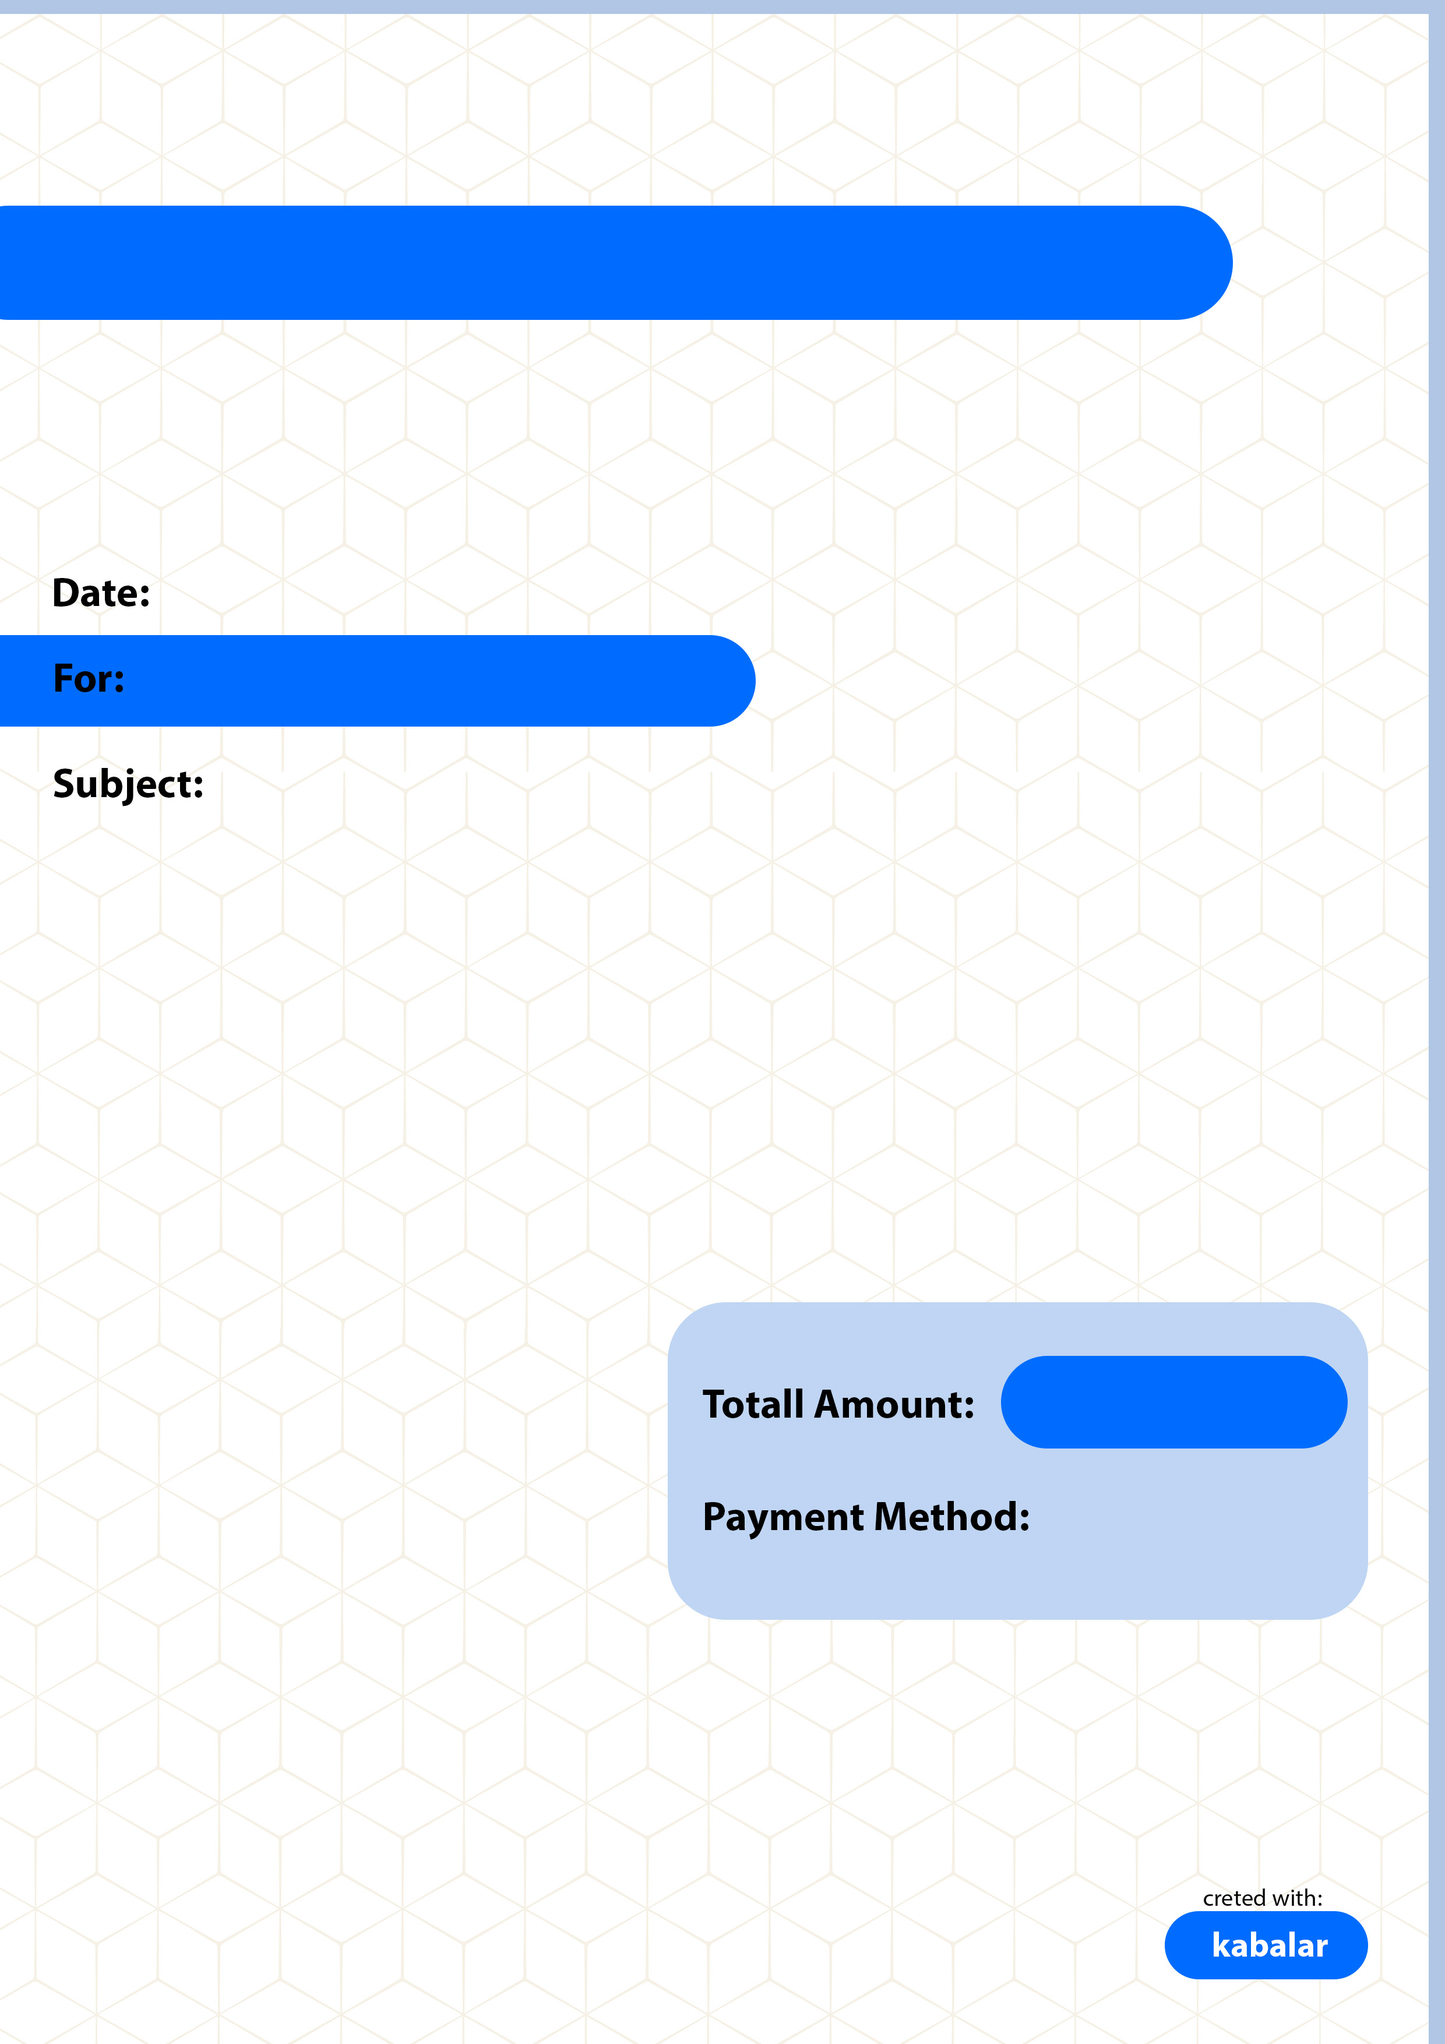
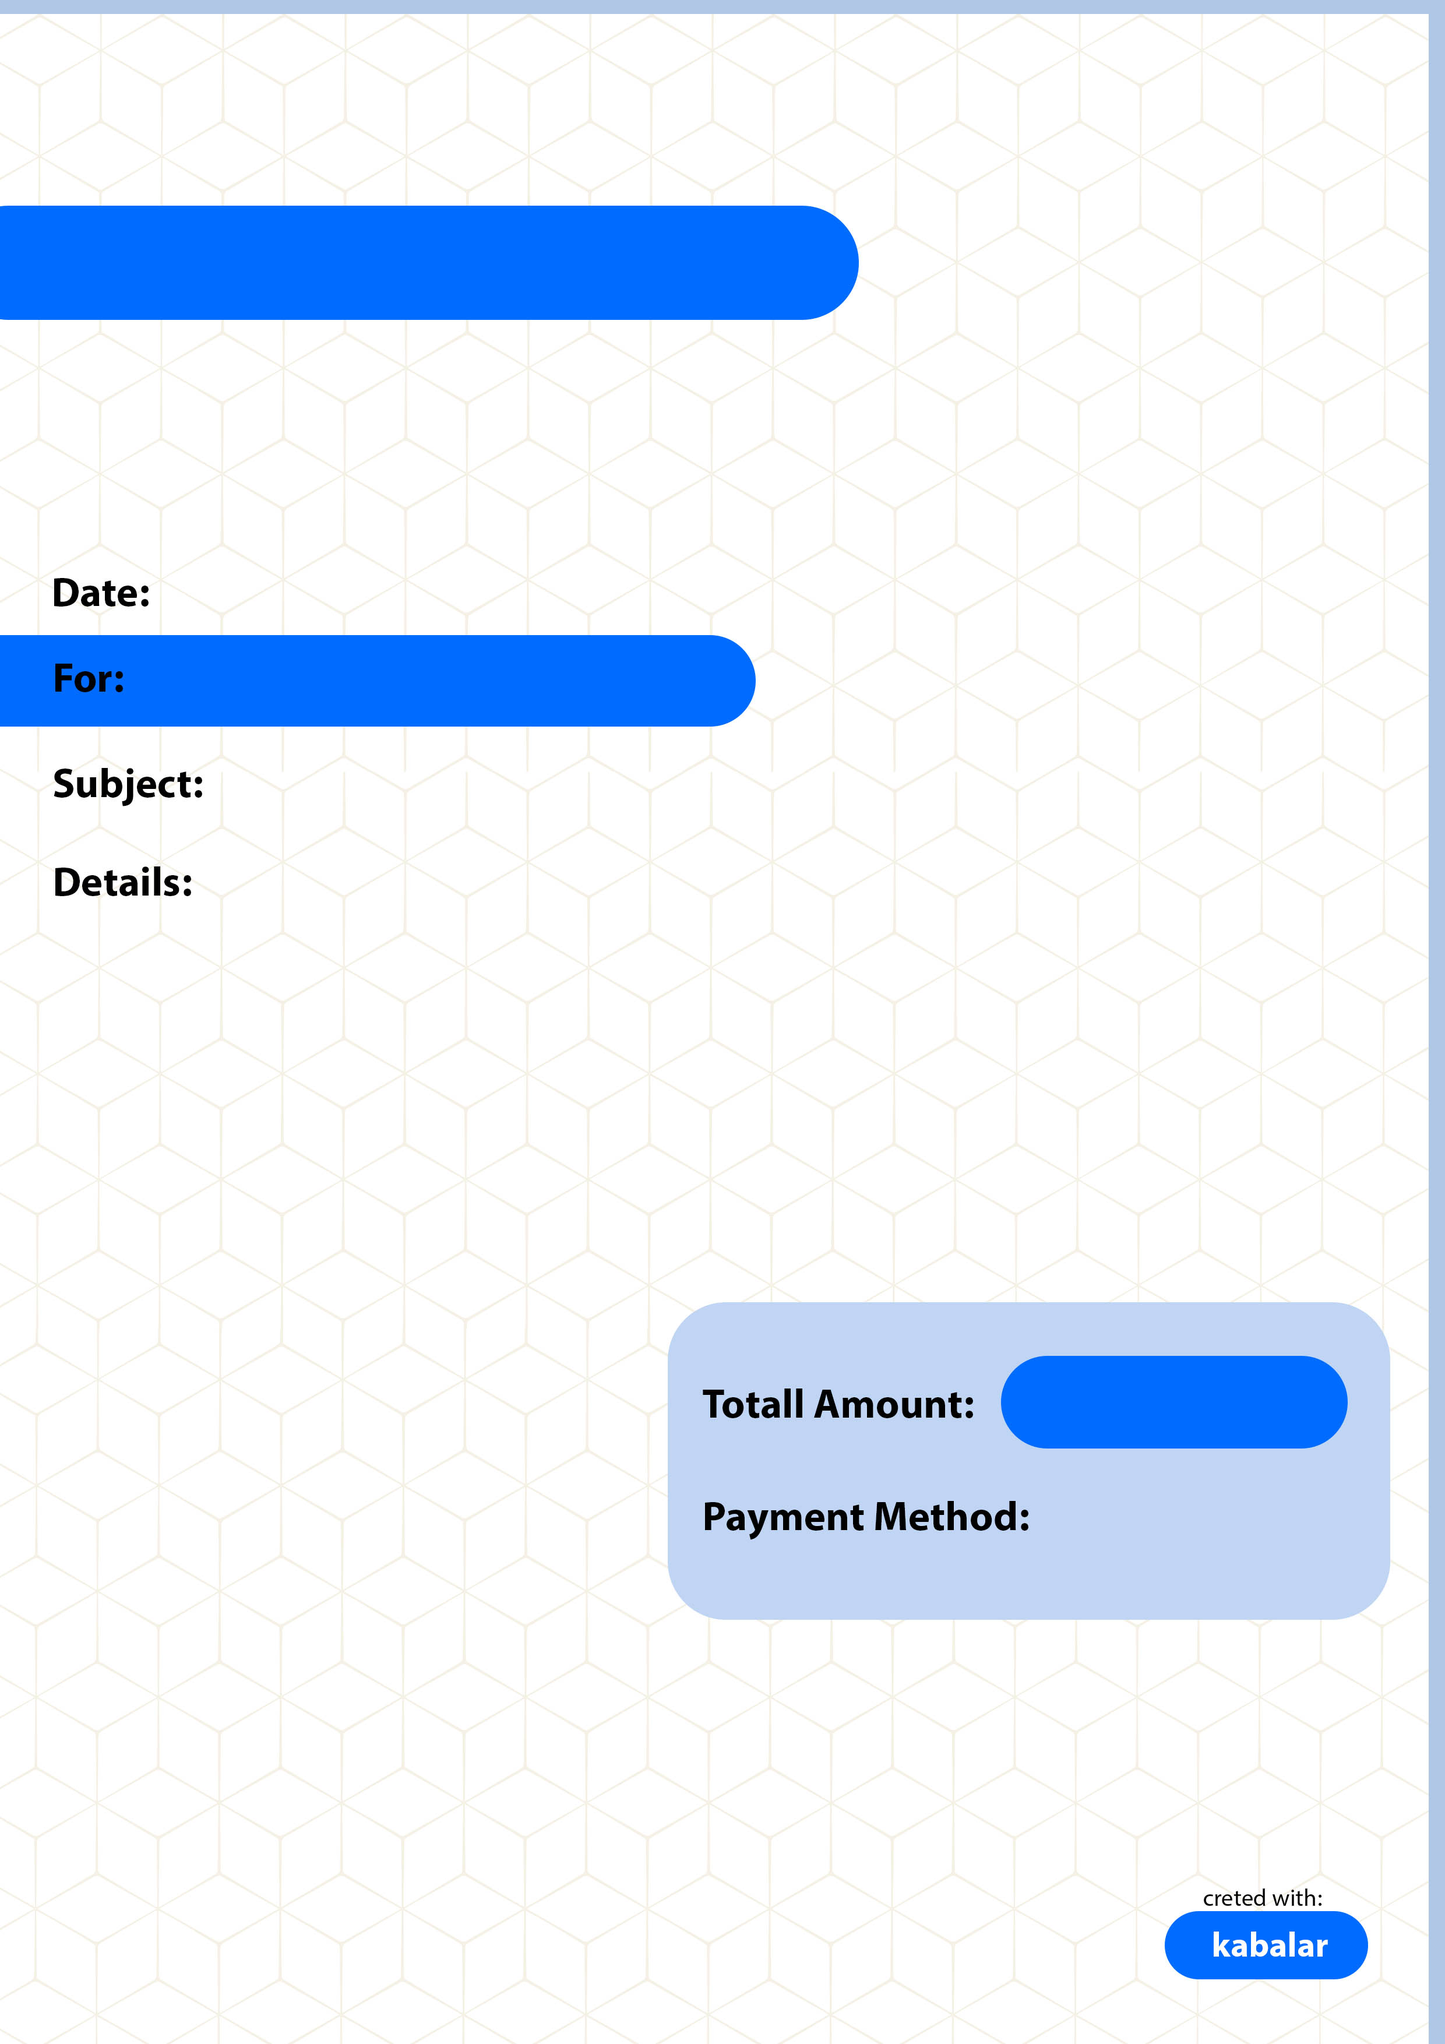
added: show password btn, document details, existing username handling

Changed region(s): [[0.5589, 0.0932, 0.8694, 0.1554], [0.9315, 0.6214, 0.9625, 0.8079], [0.031, 0.4039, 0.1242, 0.435]]

diff --git a/templates/register.html b/templates/register.html
@@ -12,15 +12,6 @@
                             <div class="card-header"><h3 class="text-center font-weight-light my-4">Kabalar - Register
                                 User</h3>
                             </div>
-<!--                            <div class="form-check mb-3">-->
-<!--                                        {% with messages = get_flashed_messages() %}-->
-<!--                                        {% if messages %}-->
-<!--                                        {% for message in messages %}-->
-<!--                                        <span class="flash_msg" id="flash">{{ message }}</span>-->
-<!--                                        {% endfor %}-->
-<!--                                        {% endif %}-->
-<!--                                        {% endwith %}-->
-<!--                                    </div>-->
                             <div class="card-body">
                                 <p class="lead">Enter your details to sign up and start documenting!</p>
                                 {% with messages = get_flashed_messages() %}
@@ -34,12 +25,14 @@
                                 <form action="{{ url_for('register_user') }}" method="POST" novalidate>
                                     {{ form.csrf_token }}
                                     {% for field in form %}
-                                    {% if field not in [form.csrf_token, form.submit] %}
+                                    {% if field not in [form.csrf_token, form.submit, form.show_pass] %}
                                     {{ field.label }}<br>
                                     <div class="form-floating mb-3">
                                         {{ field(class="form-control-meron", id=field.id) }}
                                             {% if field==form.pass_repeat %}
-                                              <span>&nbsp;<i id="new_check" class="fas fa-check green" style="display: none;"></i></span>
+                                            <span>&nbsp;<i id="new_check" class="fas fa-check green" style="display: none;"></i></span><br>
+                                            <span class="smaller">{{ form.show_pass() }}&nbsp;&nbsp;{{ form.show_pass.label }}</span>
+                                            <br><br>
                                             {% endif %}
                                         {% if field.errors: %}
                                         {% for error in field.errors %}
@@ -68,7 +61,7 @@
 <div id="layoutAuthentication_footer">
     {% include "footer.html" %}
 </div>
-<script src="../../static/js/scripts.js"></script>
+<script src="../../static/js/password_fields.js"></script>
 </body>
 
 {% endblock %}

diff --git a/templates/change_password.html b/templates/change_password.html
@@ -17,7 +17,7 @@
                         {% with messages = get_flashed_messages() %}
                         {% if messages %}
                         {% for message in messages %}
-                        <span class="flash_msg">{{ message }}</span>
+                        <span class="flash_msg">&nbsp;&nbsp;&nbsp;{{ message }}</span>
                         {% endfor %}
                         {% endif %}
                         {% endwith %}
@@ -30,7 +30,7 @@
                         <form action="{{ url_for('change_password', user_name=user.user_name) }}" method="POST" novalidate>
                             {{ form.csrf_token }}
                                 {% for field in form %}
-                                    {% if field not in [form.csrf_token, form.submit] %}
+                                    {% if field not in [form.csrf_token, form.submit, form.show_pass] %}
                                         {{ field.label }}<br>
                                         <div class="form-floating mb-3">
 
@@ -48,6 +48,7 @@
                                         </div>
                                     {% endif %}
                                 {% endfor %}
+                            <span class="smaller">{{ form.show_pass() }}&nbsp;&nbsp;{{ form.show_pass.label }}</span>
                             <div class="mt-4 mb-0">
                                 {{ form.submit(class_="btn btn-primary btn-block") }}
                                 <a href="{{ url_for('user_profile', user_name=user.user_name) }}" class="btn btn-primary">Cancel</a>
@@ -66,7 +67,8 @@
         crossorigin="anonymous"></script>
 <script src="https://code.jquery.com/jquery-3.6.0.min.js"></script>
 <script src="../../static/js/scripts.js"></script>
+<script src="../../static/js/password_fields.js"></script>
 <script src="https://cdn.jsdelivr.net/npm/simple-datatables@latest" crossorigin="anonymous"></script>
-<script src="../../static/js/datatables-simple-demo.js"></script>
+
 </body>
 {% endblock %}

diff --git a/templates/user_profile.html b/templates/user_profile.html
@@ -17,7 +17,7 @@
                         {% with messages = get_flashed_messages() %}
                         {% if messages %}
                         {% for message in messages %}
-                        <span class="flash_msg">{{ message }}</span>
+                        <span class="flash_msg">&nbsp;&nbsp;&nbsp;{{ message }}</span>
                         {% endfor %}
                         {% endif %}
                         {% endwith %}
@@ -52,10 +52,10 @@
                             <span>&nbsp;-&nbsp;<a href="{{ url_for('user_profile', user_name=user.user_name, edit_currency=True) }}">Change</a></span></li>
                             {% elif edit_currency %}
                             <li class="breadcrumb-item active">&nbsp;&nbsp;Change Currency:
-                            <form action="{{ url_for('user_profile', user_name=user.user_name, edit_currency=True) }}" method="POST" novalidate>
+                            <span><form action="{{ url_for('user_profile', user_name=user.user_name, edit_currency=True) }}" method="POST" novalidate>
                                 {{ form_c.csrf_token }}
-                                {{ form_c.currency() }} {{form.submit() }}
-                            </form>
+                                {{ form_c.currency(style="width: 17rem;") }} {{form_c.submit(class="no_btn") }}
+                            </form></span>
                             </li>
                             {% endif %}
                         </ol>

diff --git a/templates/login.html b/templates/login.html
@@ -16,7 +16,7 @@
                                 <form action="{{ url_for('login') }}" method="POST" novalidate>
                                     {{ form.csrf_token }}
                                     {% for field in form %}
-                                    {% if field not in [form.csrf_token, form.submit, form.send_confirm] %}
+                                    {% if field not in [form.csrf_token, form.submit, form.send_confirm, form.show_pass] %}
                                     {{ field.label }}<br>
                                     <div class="form-floating mb-3">
                                         {{ field(class="form-control") }}<br>
@@ -28,6 +28,7 @@
                                     </div>
                                     {% endif %}
                                     {% endfor %}
+                                    <span class="smaller">{{ form.show_pass() }}&nbsp;&nbsp;{{ form.show_pass.label }}</span>
 
                                     <div class="form-check mb-3" >
                                         <div id="flash">
@@ -60,6 +61,7 @@
 <div id="layoutAuthentication_footer">
     {% include "footer.html" %}
 </div>
+<script src="../../static/js/password_fields.js"></script>
 </body>
 
 {% endblock %}

diff --git a/static/css/styles.css b/static/css/styles.css
@@ -2217,7 +2217,7 @@ progress {
   margin-bottom: 1%;
   align: center;
   display: inline-block;
-  width: 60%;
+  width: 85%;
   padding: 0.75rem 0.75rem;
   font-size: 1rem;
   font-weight: 400;
@@ -2690,6 +2690,7 @@ textarea.form-control-lg {
 
 .form-floating {
   position: relative;
+  margin-left: 1%
 }
 .form-floating > .form-control, .form-floating > .dataTable-input,
 .form-floating > .form-select,
@@ -4592,6 +4593,12 @@ textarea.form-control-lg {
 .card-body {
   flex: 1 1 auto;
   padding: 1rem 1rem;
+}
+
+.card-body-space {
+  width: 65%;
+  flex: 1 1;
+  padding: 2rem 3rem;
 }
 
 .card-title {
@@ -11764,6 +11771,18 @@ body {
     background-color: transparent;
     color: inherit;
     outline: none;
+}
+
+.no_btn {
+    color: Gray;
+    border: none;
+    background-color: transparent;
+    color: inherit;
+    outline: none;
+}
+
+.no_btn:hover {
+    color: Black;
 }
 
 .copy_doc_url {

diff --git a/templates/renew_password.html b/templates/renew_password.html
@@ -33,6 +33,9 @@
                                                 <span class=flash_msg>{{ error }}</span>
                                             {% endfor %}
                                         {% endif %}
+                                    <br>
+                                    <span class="smaller">{{ form.show_pass() }}&nbsp;&nbsp;{{ form.show_pass.label }}</span>
+
                                     </div>
                                     <div class="form-check mb-3" >
                                         <div id="flash">
@@ -62,7 +65,7 @@
 <div id="layoutAuthentication_footer">
     {% include "footer.html" %}
 </div>
-<script src="../../static/js/scripts.js"></script>
+<script src="../../static/js/password_fields.js"></script>
 </body>
 
 {% endblock %}

diff --git a/templates/customer_profile.html b/templates/customer_profile.html
@@ -17,7 +17,7 @@
                         {% with messages = get_flashed_messages() %}
                         {% if messages %}
                         {% for message in messages %}
-                        <span class="flash_msg">&nbsp;&nbsp;{{ message }}</span>
+                        <span class="flash_msg">&nbsp;&nbsp;&nbsp;{{ message }}</span>
                         {% endfor %}
                         {% endif %}
                         {% endwith %}

diff --git a/static/js/password_fields.js b/static/js/password_fields.js
@@ -1,0 +1,11 @@
+$(function() {
+    var passwordField = $('input[type="password"]');
+    var showPasswordCheckbox = $('input[type="checkbox"]');
+    showPasswordCheckbox.on('change', function() {
+        if ($(this).is(':checked')) {
+                passwordField.attr('type', 'text');
+                } else {
+                    passwordField.attr('type', 'password');
+                        }
+                });
+});

diff --git a/templates/dashboard_create.html b/templates/dashboard_create.html
@@ -54,7 +54,7 @@
                 </div>
             </div>
             <div class="card">
-                <div class="card-body">
+                <div class="card-body-space">
                     <form action="{{ url_for('new_document', user_name=user.user_name, checkbox=checkbox) }}" method="POST" novalidate>
 
                             {{ form.csrf_token }}

diff --git a/static/js/scripts.js b/static/js/scripts.js
@@ -39,3 +39,4 @@ $(document).ready(function() {
 });
 
 
+

diff --git a/forms.py b/forms.py
@@ -1,6 +1,7 @@
 from flask_login import current_user
 from flask_wtf import FlaskForm
-from wtforms import StringField, SubmitField, PasswordField, ValidationError, SelectField, IntegerField, BooleanField
+from wtforms import StringField, SubmitField, PasswordField, ValidationError, SelectField,\
+    IntegerField, TextAreaField, BooleanField
 from wtforms.validators import InputRequired, Email, EqualTo
 import re
 import pycountry
@@ -20,9 +21,10 @@ class CurrencySelectField(SelectField):
                 symbol = row["Symbol"]
                 currencies[code] = {"currency": currency, "symbol": symbol}
         self.choices = [f'{value["currency"]} - {code} / {value["symbol"]}' for code, value in currencies.items()]
-        if current_user.is_authenticated:
-            self.default = current_user._get_current_object().currency
-            print(self.default)
+        for choice in self.choices:
+            if current_user._get_current_object().currency in choice:
+                self.default = choice
+                break
 
 
 class CustomerSelectField(SelectField):
@@ -84,6 +86,7 @@ class RegisterUserForm(FlaskForm):
     address = StringField("Full Address", validators=[InputRequired()], id='address')
     website = StringField("Web Site URL", id='website')
     submit = SubmitField("Register User", id='submit')
+    show_pass = BooleanField('Show password')
 
 
 class UpdateUserForm(FlaskForm):
@@ -120,11 +123,12 @@ class NewDocumentForm:
                 payment_amount = IntegerField("Payment Amount", validators=[InputRequired()])
                 currency = CurrencySelectField('Select Currency', validators=[InputRequired()])
                 payment_type = PaymentTypeSelectField('Payment Type', validators=[InputRequired()])
+                extra_details = TextAreaField('Extra Details')
                 submit = SubmitField("Create Document")
 
                 def __init__(self):
                     super(NewDocForm, self).__init__()
-                    self.fields = ['doc_type', 'subject', 'listed_customers', 'payment_amount', 'payment_type']
+                    self.fields = ['doc_type', 'subject', 'listed_customers', 'payment_amount', 'payment_type', 'extra_details']
 
             return NewDocForm()
 
@@ -141,12 +145,13 @@ class NewDocumentForm:
                 customer_address = StringField("Customer Address")
                 customer_email = StringField("Customer E-Mail Address",
                                               validators=[InputRequired(), Email('* Invalid Email')])
+                extra_details = TextAreaField('Extra Details')
                 submit = SubmitField("Create Document")
 
                 def __init__(self):
                     super(NewDocForm1, self).__init__()
                     self.fields = ['doc_type', 'subject', 'customer_name', 'customer_phone', 'customer_address',
-                                   'customer_email', 'payment_amount', 'payment_type']
+                                   'customer_email', 'payment_amount', 'payment_type', 'extra_details']
 
             return NewDocForm1()
 
@@ -155,6 +160,7 @@ class LoginForm(FlaskForm):
     email = StringField("Email", validators=[InputRequired(), Email()])
     password = PasswordField("Password", validators=[InputRequired()])
     submit = SubmitField("Log In")
+    show_pass = BooleanField('Show Password')
 
 
 class ChangeCurrencyFrom(FlaskForm):
@@ -170,6 +176,7 @@ class ChangePasswordForm(FlaskForm):
     new_repeat = PasswordField('Re-Enter new password',
                                validators=[InputRequired(), EqualTo('new_pass', '* Passwords must match.')], id='new_r')
     submit = SubmitField("Update Password")
+    show_pass = BooleanField('Show Passwords')
 
 
 class RenewPasswordForm(FlaskForm):
@@ -177,6 +184,7 @@ class RenewPasswordForm(FlaskForm):
     new_repeat = PasswordField('Re-Enter new password',
                                validators=[InputRequired(), EqualTo('new_pass', '* Passwords must match.')], id='new_r')
     submit = SubmitField("Save new password")
+    show_pass = BooleanField('Show Passwords')
 
 
 class EmailFieldForm(FlaskForm):

diff --git a/pdf_document.py b/pdf_document.py
@@ -49,6 +49,14 @@ class DocPdf:
         doc_subject = pdf_canvas.beginText(90.5, A4[1] - 328)
         doc_subject.textLine(self.document.subject)
 
+        details_lines = []
+        line_y = A4[1] - 369.5
+        for line in self.document.extra_details.split('\n'):
+            detail_line = pdf_canvas.beginText(90.5, line_y)
+            detail_line.textLine(line[:-1])
+            details_lines.append(detail_line)
+            line_y -= 20
+
         payment_amount = pdf_canvas.beginText(434.5, A4[1] - 584)
         payment_amount.textLine(f'{str(self.document.payment_amount)} {self.document.currency}')
 
@@ -74,6 +82,8 @@ class DocPdf:
         pdf_canvas.drawText(doc_subject)
         pdf_canvas.drawText(payment_amount)
         pdf_canvas.drawText(payment_type)
+        for line in details_lines:
+            pdf_canvas.drawText(line)
 
         pdf_canvas.setFont('Helvetica', 11)
         pdf_canvas.drawText(contact_a)
